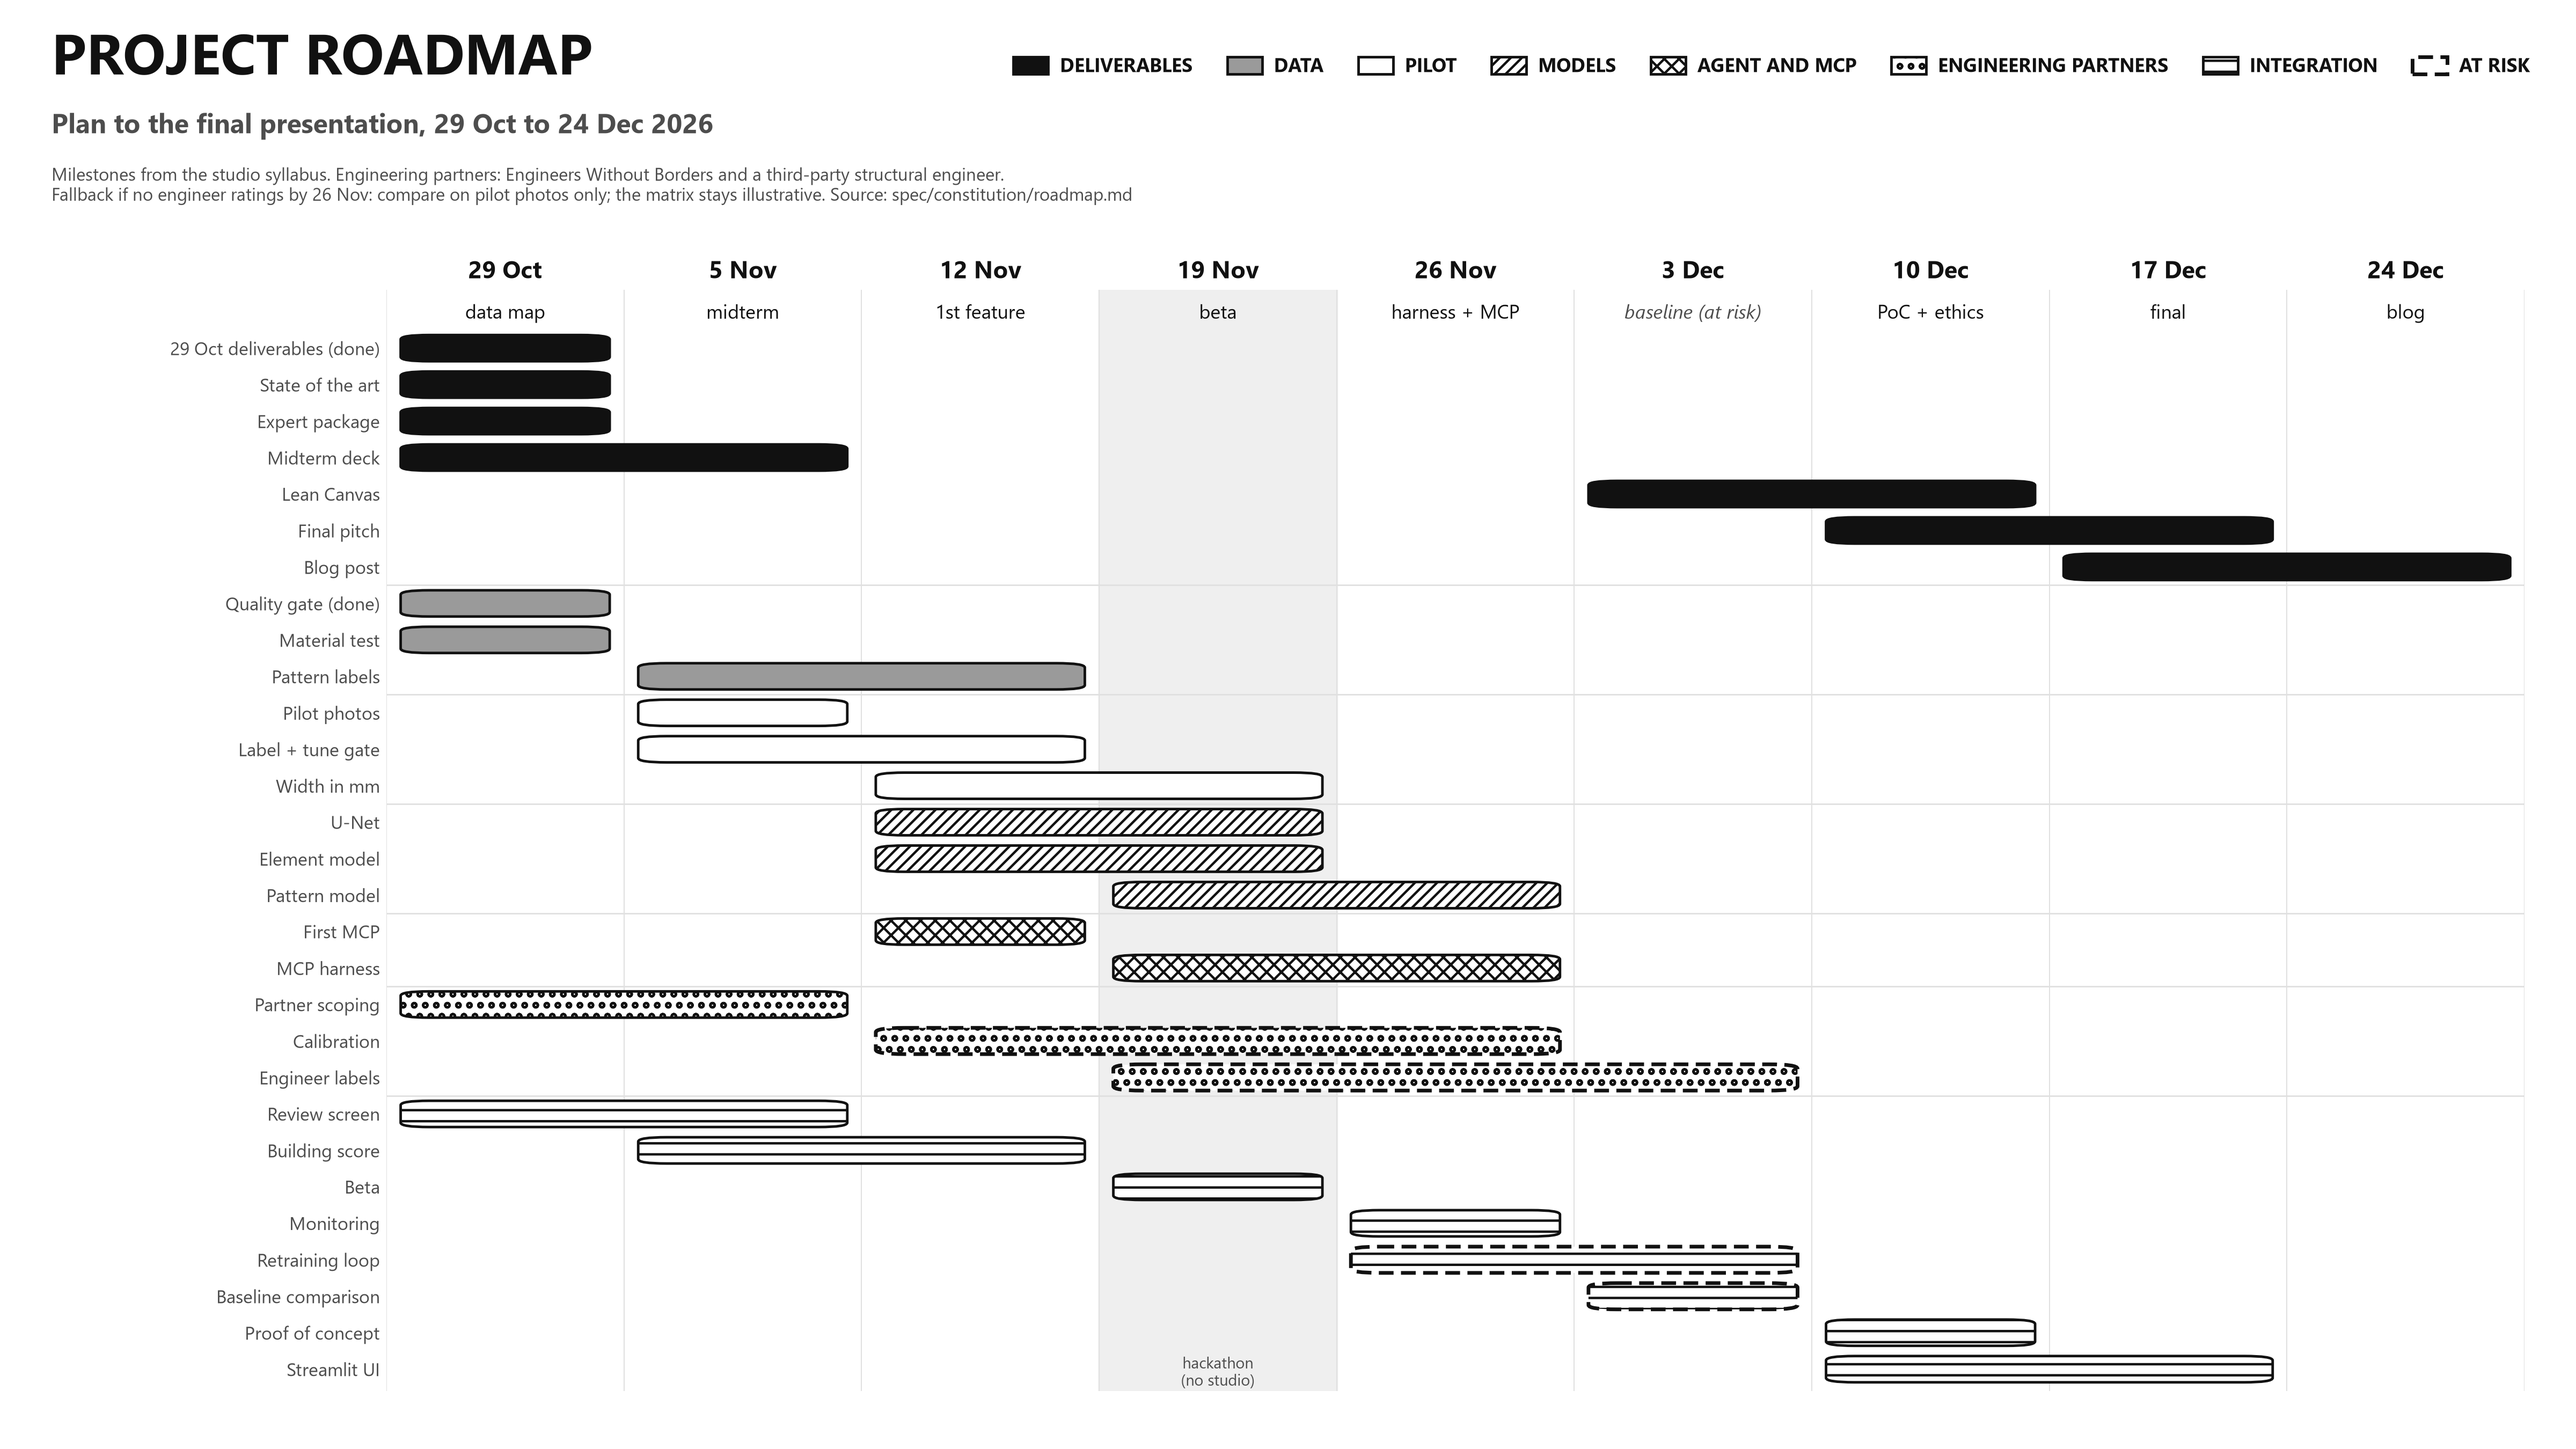
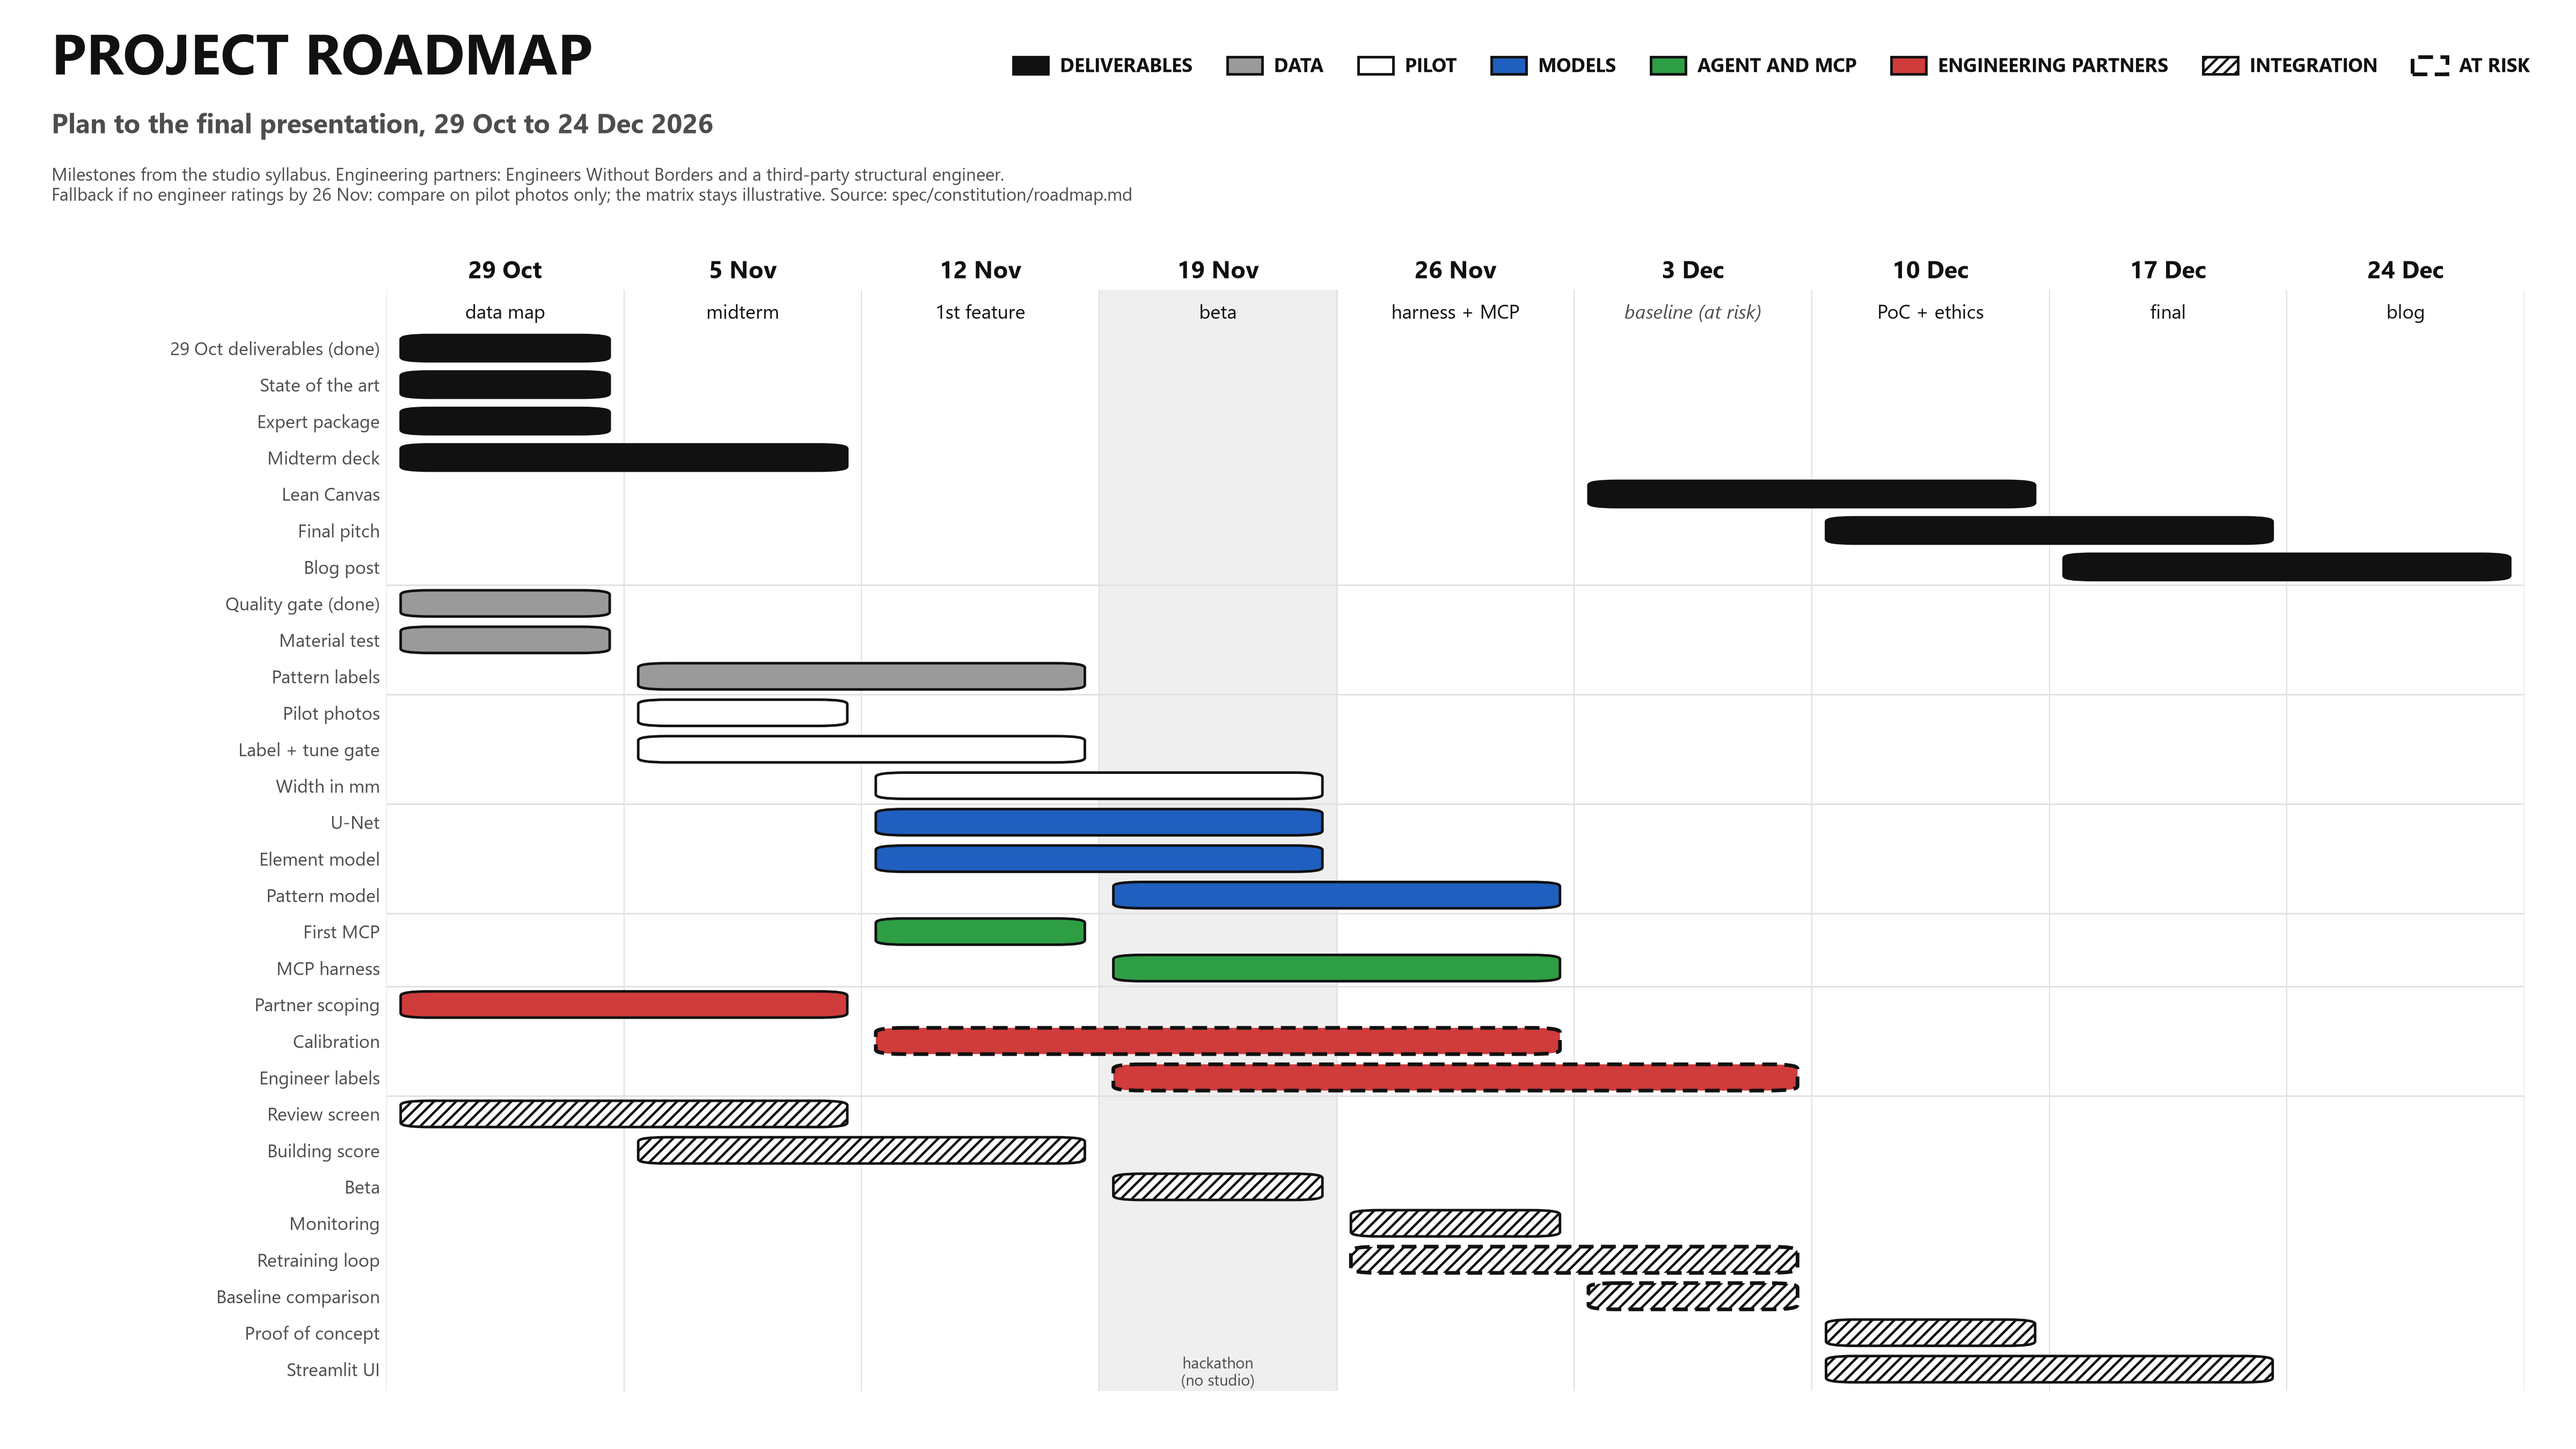
Roadmap colours: black, grey, white, blue, green, red and one hatch, one per workstream

diff --git a/src/viz/figures.py b/src/viz/figures.py
@@ -1009,10 +1009,11 @@ WEEK_DATES = ["29 Oct", "5 Nov", "12 Nov", "19 Nov", "26 Nov", "3 Dec", "10 Dec"
 WEEK_MILESTONES = [("data map", False), ("midterm", False), ("1st feature", False), ("beta", False),
                    ("harness + MCP", False), ("baseline", True), ("PoC + ethics", False), ("final", False),
                    ("blog", False)]
-# One clearly different look per workstream (never two greys): (fill, hatch); every edge is black.
+# One clearly different look per workstream: black, grey, white, blue, green, red, and one hatch (the user's pick;
+# the roadmap is an exception to the grey-only rule). (fill, hatch); every edge is black.
 WORKSTREAM_STYLE = {"Deliverables": ("#111111", None), "Data": ("#9a9a9a", None), "Pilot": ("white", None),
-                    "Models": ("white", "////"), "Agent and MCP": ("white", "xxx"),
-                    "Engineering partners": ("white", "oo"), "Integration": ("white", "--")}
+                    "Models": ("#1f5fbf", None), "Agent and MCP": ("#2e9e44", None),
+                    "Engineering partners": ("#d03b3b", None), "Integration": ("white", "////")}
 RISK_EDGE = dict(ls=(0, (4, 2)), lw=2.0)  # at risk (needs the engineering partners): thick dashed border
 
 

diff --git a/spec/features/figures.md b/spec/features/figures.md
@@ -21,7 +21,7 @@ Every figure is drawn from the repo's own rules and data map, so it changes when
 | `09_timeline.png` | Plan to the final presentation (17 Dec) with syllabus milestones and tasks at risk | `spec/constitution/roadmap.md` |
 | `10_dataset_comparison.png` | Every dataset on our disk side by side, in order of fit: images, quality gate pass rate, labels, what it trains, licence; one row per PHI-Net task | `docs/data_map.md`, sections 0 and 6; gate rates from `data/processed/real_data_quality.csv` |
 
-Colour rules: every figure uses black, white and greys only (28 Oct 2026); differences are also carried by labels, line styles or hatching, never by grey alone. Flow figures (01b, 01c, 02): white = photos and people, grey = written rules, black = learned models. Category 1 light, 2 mid grey, 3 black, always with the number. Exceptions: the real photos in 02b keep their own colours, and 08 (quality gate histograms) stays in colour by the user's choice. Titles: bold capitals, 38 pt on a 24 in wide figure (scaled by width), no figure number: numbering is done in the presentation (`_house_title` in `src/viz/figures.py`). Legend: one line, top right, level with the title, same size on every figure (`_house_legend`; flow figures share `_flow_key`: people and photos, written rules, learned models). Keys that carry meanings (03 categories, 08 per-panel series) stay with their content. Size: every figure is 16:9 and saved at 4800 x 2700 px (`SLIDE_PX`), so it drops straight into a slide; tested in `tests/test_figures.py`.
+Colour rules: every figure uses black, white and greys only (28 Oct 2026); differences are also carried by labels, line styles or hatching, never by grey alone. Flow figures (01b, 01c, 02): white = photos and people, grey = written rules, black = learned models. Category 1 light, 2 mid grey, 3 black, always with the number. Exceptions: the real photos in 02b keep their own colours, 08 (quality gate histograms) stays in colour, and the roadmap (09) uses black, grey, white, blue, green, red and one hatch, one per workstream, all by the user's choice. Titles: bold capitals, 38 pt on a 24 in wide figure (scaled by width), no figure number: numbering is done in the presentation (`_house_title` in `src/viz/figures.py`). Legend: one line, top right, level with the title, same size on every figure (`_house_legend`; flow figures share `_flow_key`: people and photos, written rules, learned models). Keys that carry meanings (03 categories, 08 per-panel series) stay with their content. Size: every figure is 16:9 and saved at 4800 x 2700 px (`SLIDE_PX`), so it drops straight into a slide; tested in `tests/test_figures.py`.
 
 When `docs/` changes, update the data constants in `figures.py` (TREE, COVERAGE, DATASETS, HELD, PLAN, MILESTONES) and rerun.
 Later, once engineer-labelled photos exist: a filled confusion matrix and the measured threshold curve (missed Category 3 vs referral rate).
